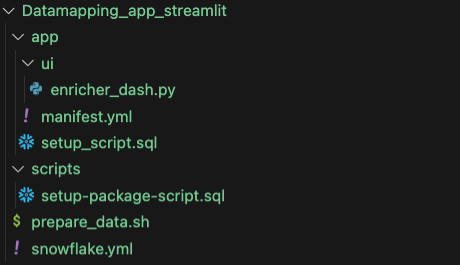
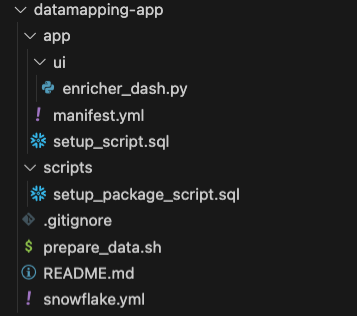
fixing minor corrections from PR comment and updating picture and tree with readme

Changed region(s): [[0.0, 0.0, 0.6779, 0.966]]

diff --git a/site/sfguides/src/data_mapping_in_native_apps/data_mapping_in_native_apps.md b/site/sfguides/src/data_mapping_in_native_apps/data_mapping_in_native_apps.md
@@ -75,18 +75,20 @@ The project we are about to create is composed of several files in the following
 -- Datamapping App project
 
     |-- app
-    |   |-- setup_script.sql
-    |   |-- manifest.yml
     |   |-- ui
     |   |   |-- enricher_dash.py
+    |   |-- manifest.yml
+    |   |-- setup_script.sql
     |-- scripts
     |   |-- setup-package-script.sql
-    |-- snowflake.yml
+    |-- .gitignore
     |-- prepare_data.sh
-    
+    |-- README.md
+    |-- snowflake.yml
 ```
 
-To start creating this folder structure, go to your console and inside the folder you want the project to reside. Execute the following **`snow app init datamapping_app_streamlit`**. This will create several files for a basic template, we are replacing some of them and also creating new ones.
+To start creating this folder structure, go to your console and inside the folder you want the project to reside. Execute the following command: 
+**`snow app init datamapping_app_streamlit`**.
 
 Now, inside the **app** folder, create another one, called **ui**, and add the following file
 
